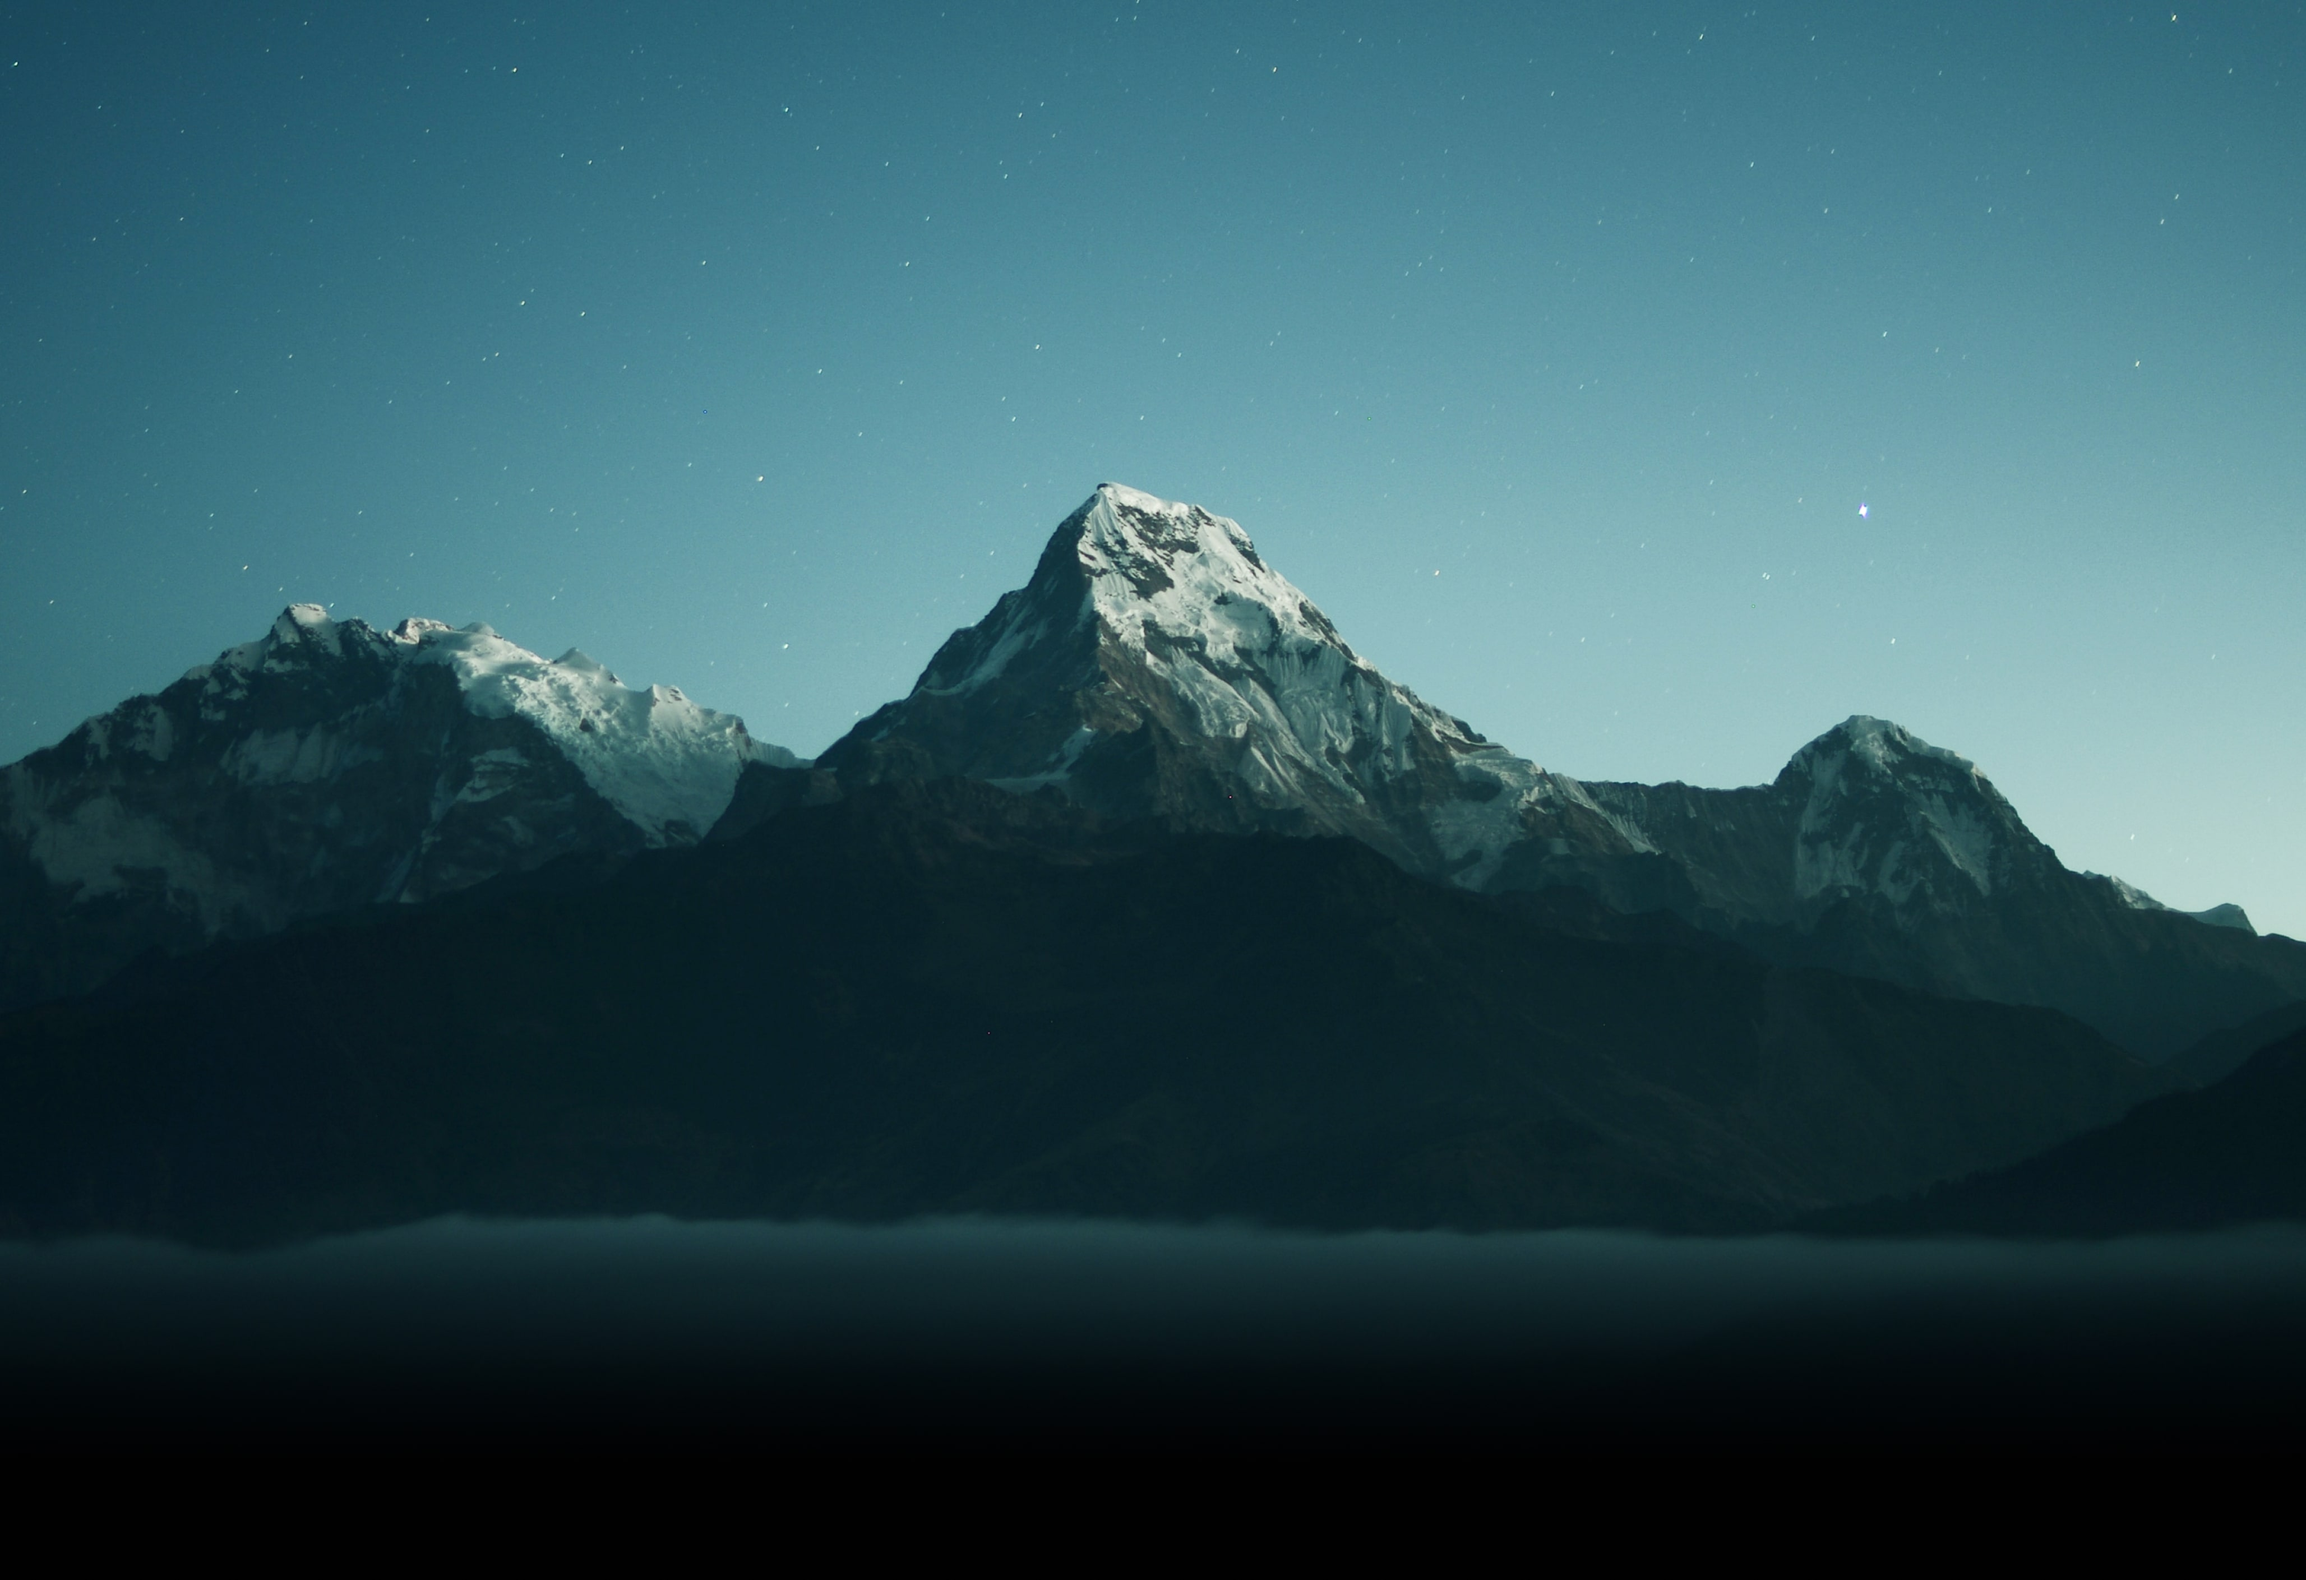
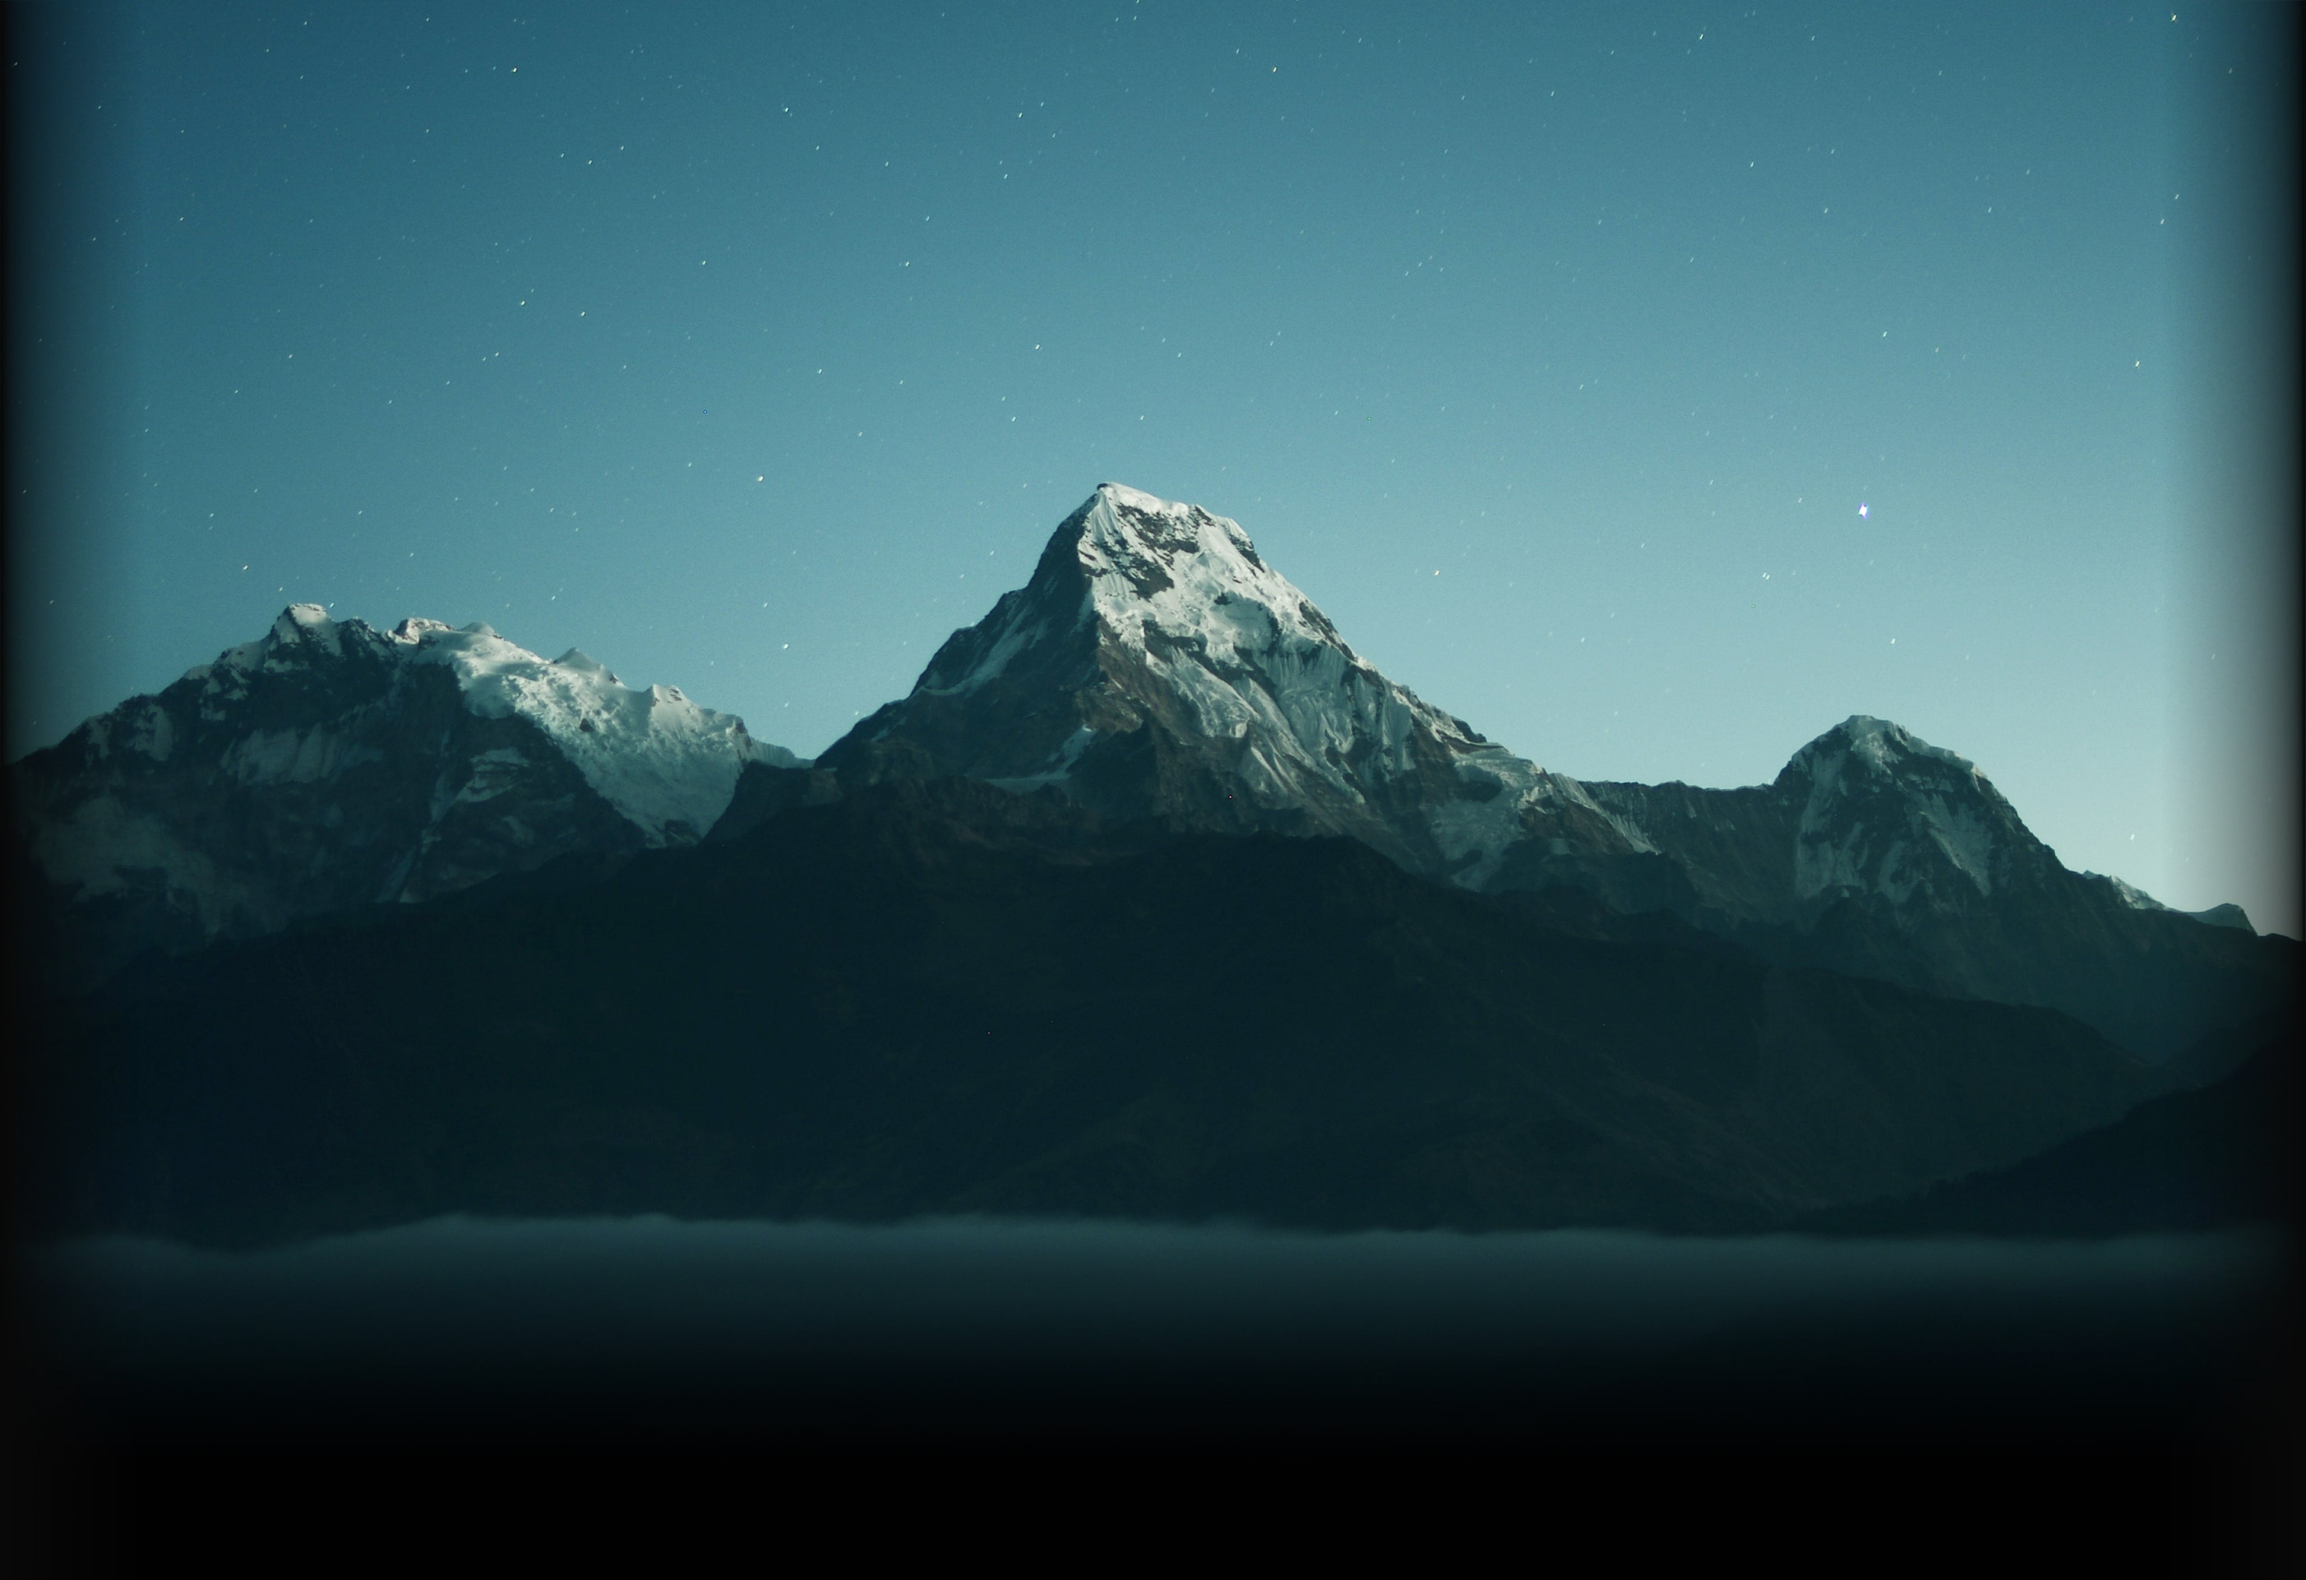
fix background at large screens

diff --git a/src/app/globals.scss b/src/app/globals.scss
@@ -11,7 +11,7 @@
 
 body {
   color: rgb(var(--sand-color-rgb));
-  background-size: 1800px;
+  background-size: 2100px;
   background-image: url(../../public/background.jpg);
   background-color: rgb(0, 0, 0);
   background-position-y: 0;
